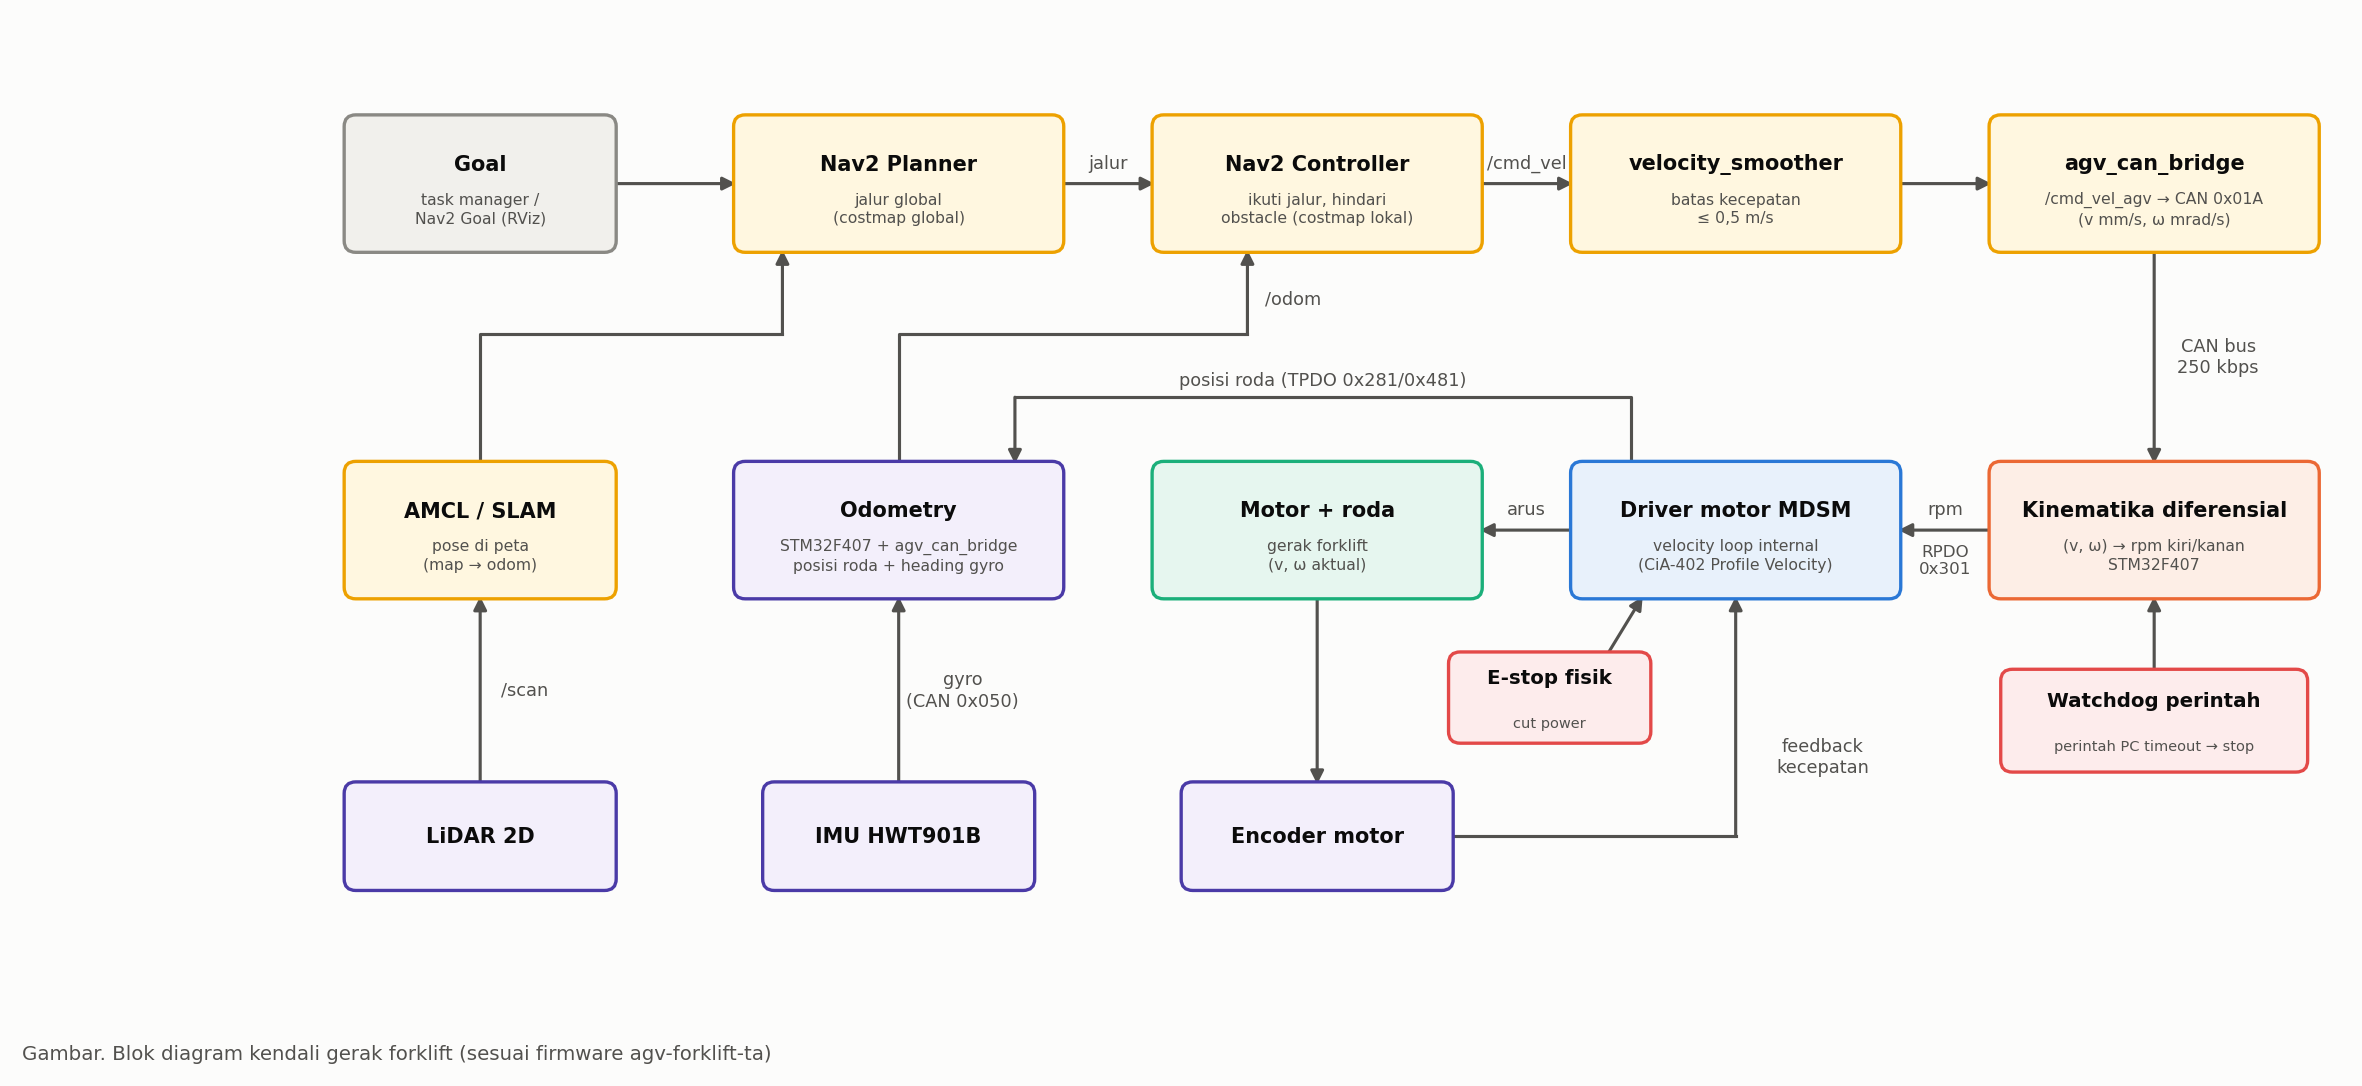
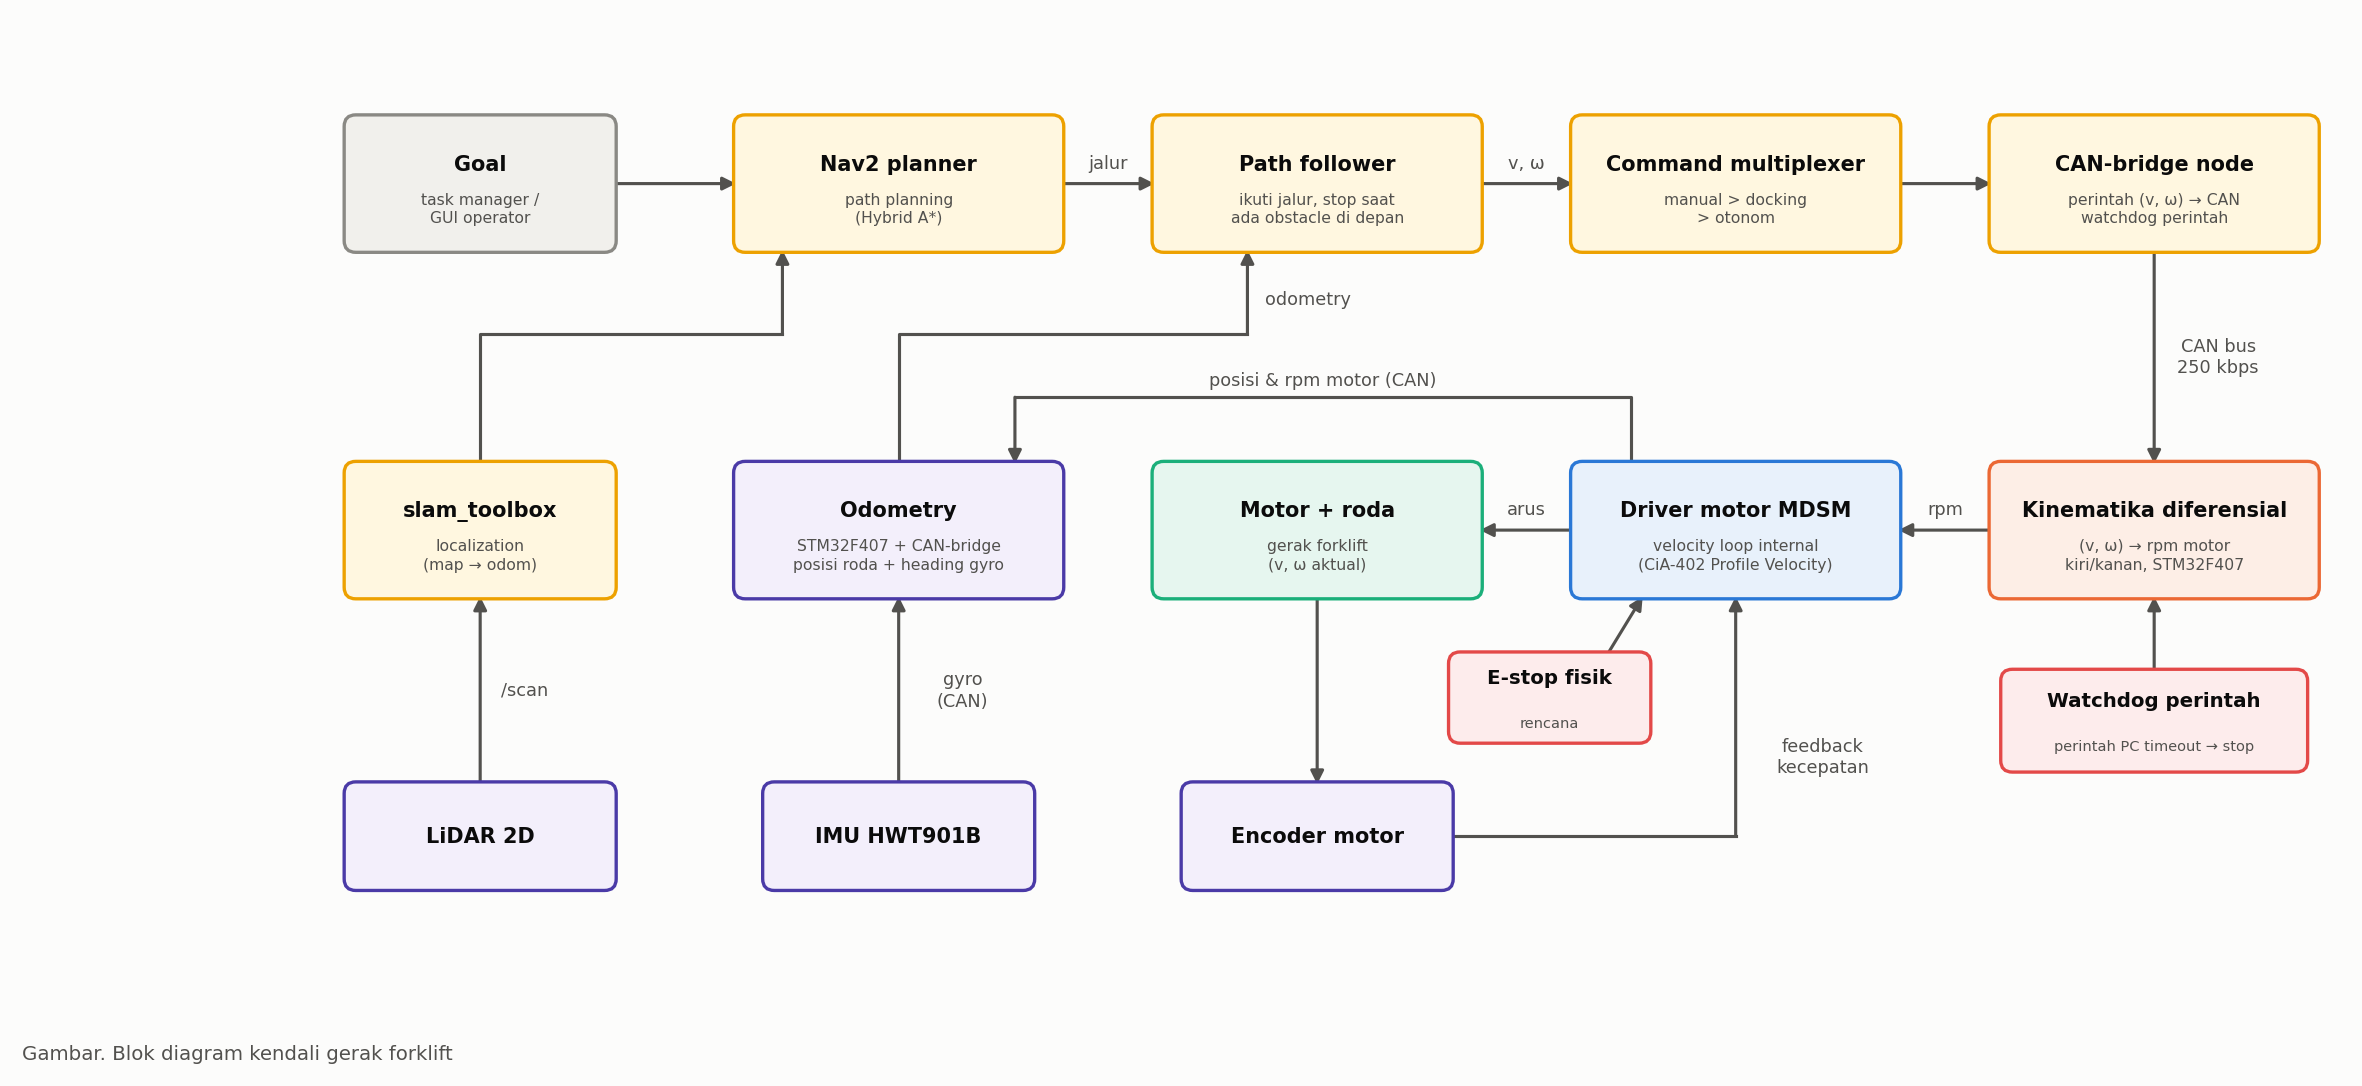
Week 3: hapus peta ID CAN rinci, sesuaikan kendali gerak dan localization dengan sistem nyata

diff --git a/README.md b/README.md
@@ -31,8 +31,8 @@ Periode 12/10/2026 s.d. 16/10/2026 (tahap Perancangan), sesuai logbook individu 
 
 **Kendala dan solusi:**
 
-1. Format pesan CAN STM32 utama belum diketahui, sehingga decoder `ros2_socketcan` masih memakai ID contoh. Solusi: peta ID dan format data diambil dari repositori proyek AGV `agv-forklift-ta` (`agv_can.py`, sumber firmware `can_pc.h`/`can_pc.c`); lihat [Peta ID CAN Forklift](#peta-id-can-forklift).
-2. FAST-LIO dan DLIO membutuhkan LiDAR 3D, sedangkan forklift memakai LiDAR 2D. Solusi: FAST-LIO dan DLIO tidak dipakai; navigasi tetap memakai slam_toolbox dan AMCL dengan odometry roda + gyro IMU.
+1. Format pesan CAN STM32 utama belum diketahui, sehingga decoder `ros2_socketcan` masih memakai ID contoh. Solusi: peta ID dan format data diambil dari firmware STM32F407 forklift milik mitra; ringkasannya ada di [Data CAN Forklift](#data-can-forklift).
+2. FAST-LIO dan DLIO membutuhkan LiDAR 3D, sedangkan forklift memakai LiDAR 2D. Solusi: FAST-LIO dan DLIO tidak dipakai; navigasi tetap memakai slam_toolbox (mapping dan localization) dengan odometry roda + gyro IMU.
 3. Kendali kecepatan per roda semula diasumsikan berupa PI di STM32 utama. Solusi: driver motor MDSM (CiA-402, Profile Velocity Mode) sudah mengatur kecepatan sendiri, sehingga STM32F407 cukup mengirim setpoint kecepatan (rpm) tiap roda; blok diagram kendali gerak dan arsitektur sistem diperbarui.
 4. Nilai deadband dan overrun pompa hidrolik untuk kendali fork belum diketahui. Solusi: identifikasi dari uji step fork di minggu 6–7.
 
@@ -74,7 +74,7 @@ ros2 launch ros2_socketcan socket_can_bridge.launch.xml interface:=can0
 - Field `can_msgs/msg/Frame` = `header`, `id`, `is_rtr`, `is_extended`, `is_error`, `dlc`, `data` (`uint8[8]`)
 - Parameter penting = `interface` (bawaan `can0`), `filters` (bawaan `0:0`, artinya semua ID diterima), `receiver_interval_sec` dan `sender_timeout_sec` (bawaan 0,01 s)
 
-Dengan paket ini, CAN-bridge node tidak perlu membuka socket sendiri. Node cukup mengubah `can_msgs/msg/Frame` menjadi topic bermakna, misalnya tinggi fork dari frame `0x42A`:
+Dengan paket ini, CAN-bridge node tidak perlu membuka socket sendiri. Node cukup mengubah `can_msgs/msg/Frame` menjadi topic bermakna, misalnya tinggi fork (ID dan posisi byte di bawah hanya contoh):
 
 ```python
 import struct
@@ -84,7 +84,8 @@ from can_msgs.msg import Frame
 from rclpy.node import Node
 from std_msgs.msg import Float32
 
-ID_TELE_POWER = 0x42A  # STM32F407 -> PC: daya + tinggi fork (u16 mm, byte 6-7)
+ID_FORK = 0x101  # ID contoh: tinggi fork u16 (satuan encoder x10), byte 6-7
+SKALA, OFFSET_CM = 0.971, 18.2  # hasil kalibrasi minggu 2
 
 
 class ForkDecoder(Node):
@@ -94,9 +95,9 @@ class ForkDecoder(Node):
         self.create_subscription(Frame, 'from_can_bus', self.on_frame, 50)
 
     def on_frame(self, f):
-        if f.id == ID_TELE_POWER and f.dlc >= 8:
-            height_mm = struct.unpack_from('<H', bytes(f.data), 6)[0]
-            self.pub.publish(Float32(data=height_mm / 10.0))
+        if f.id == ID_FORK and f.dlc >= 8:
+            raw = struct.unpack_from('<H', bytes(f.data), 6)[0] / 10.0
+            self.pub.publish(Float32(data=SKALA * raw + OFFSET_CM))
 
 
 def main():
@@ -108,33 +109,19 @@ if __name__ == '__main__':
     main()
 ```
 
-> **Catatan:** Nama launch file, topic, field message, dan parameter di atas sudah dicek dari paket `ros-humble-ros2-socketcan` 1.4.0. Format `0x42A` diambil dari `agv_can.py`. Kode contoh ini belum diuji di bus CAN forklift; di forklift, peran ini sudah dijalankan oleh `agv_can_bridge.py`.
+> **Catatan:** Nama launch file, topic, field message, dan parameter di atas sudah dicek dari paket `ros-humble-ros2-socketcan` 1.4.0. Kode contoh ini belum diuji di bus CAN forklift; di forklift, peran ini sudah dijalankan oleh CAN-bridge node.
 
-### Peta ID CAN Forklift
+### Data CAN Forklift
 
-Sumber: `agv-forklift-ta/ibe-agv/stm32_firmware/agv_can.py` (mengikuti firmware `Core/Inc/can_pc.h` dan `Core/Src/can_pc.c`). Bus CAN1 250 kbps, ID 11 bit, data *little-endian*. Node PC = 10 (`0x0A`).
+Format data diambil dari firmware STM32F407 forklift milik mitra. Rincian ID dan isi frame tidak dicantumkan di repositori publik ini; versi lengkapnya ada di DED bagian 5.3.
 
-**PC → STM32F407**
+- Bus = CAN1 250 kbps, ID 11 bit, data *little-endian*
+- PC → STM32F407 = Perintah gerak (v, ω) sekitar 50 Hz, target tinggi fork, dan E-stop software
+- STM32F407 → PC = Pose, gerak, daya dan tinggi fork, status, perintah yang sedang berlaku, serta data joystick (10–30 Hz)
+- Perangkat lain di bus = TPDO driver MDSM (statusword, posisi, arus, rpm motor) dan IMU HWT901B
+- Tinggi fork di frame telemetry masih dalam satuan encoder, jadi perlu dikoreksi dengan hasil kalibrasi minggu 2 (tinggi nyata = 0,971 × bacaan + 18,2 cm)
 
-- `0x00A` ESTOP = `data[0] = 0x55`
-- `0x01A` CMD (50 Hz) = `i16 v` mm/s, `i16 ω` mrad/s, `u8 mode` (1 = jalan), `u8 lampu`, `u8 beacon`, `u8 counter`
-- `0x02A` FORK = `u16` target tinggi dalam mm (firmware membatasi 0–250 cm)
-
-**STM32F407 → PC**
-
-- `0x40A` pose (30 Hz) = `f32 x`, `f32 y`
-- `0x41A` gerak (30 Hz) = `i16 θ`, `i16 yaw`, `i16 v`, `i16 ω` (dibagi 1000)
-- `0x42A` daya (10 Hz) = tegangan, arus, ..., `u16` tinggi fork (mm)
-- `0x43A` status (10 Hz) = flag (motor aktif, perintah PC baru, fork diam, E-stop, kalibrasi IMU), tombol, status pompa fork
-- `0x44A` perintah aktif (30 Hz) = v dan ω yang sedang dijalankan
-- `0x45A` joystick mentah (10 Hz)
-
-**Langsung dari perangkat lain di bus**
-
-- `0x181`, `0x281`, `0x381`, `0x481` = TPDO driver MDSM (node 1): statusword, posisi, torsi, kecepatan roda
-- `0x050` = IMU HWT901B (akselerasi, gyro, sudut)
-
-Di ROS 2, `agv_can_bridge.py` menerbitkan `/odom` dan `/fork_height`, serta menerima `/cmd_vel_agv` dan `/cmd_fork`.
+Di ROS 2, CAN-bridge node menerbitkan `/odom` dan `/fork_height`, serta menerima `/cmd_vel_agv` dan `/cmd_fork`.
 
 ### Kondisi Error Bus
 
@@ -154,6 +141,8 @@ sudo ip link set can0 type can bitrate 250000 restart-ms 100
 sudo ip link set can0 up
 ```
 
+> **Catatan:** Adapter USB-CAN di forklift (kelas gs_usb) menolak opsi `restart-ms`, jadi pemulihan bus-off di sana dilakukan dengan `ip link set can0 down` lalu `up`.
+
 ### Merekam dan Memutar Ulang Log CAN
 
 ```bash
@@ -170,10 +159,10 @@ Log CAN berguna untuk mengembangkan decoder di meja kerja tanpa menyalakan forkl
 Node minggu 2 membuka bus CAN sendiri, lalu mengurai frame di node yang sama. Dengan `ros2_socketcan`, akses bus dipisah ke node resmi, sehingga decoder cukup mengolah `can_msgs/msg/Frame`. Decoder juga bisa diuji dengan rosbag yang berisi `/from_can_bus`.
 
 **Apa yang terjadi jika kabel CAN terlepas saat forklift berjalan?**
-Pengiriman gagal terus sehingga node bisa masuk error passive lalu bus-off. Karena itu STM32 utama punya watchdog: jika perintah `0x01A` dari PC timeout, forklift berhenti (target SP-09: ≤ 1 s).
+Pengiriman gagal terus sehingga node bisa masuk error passive lalu bus-off. Karena itu STM32 utama punya watchdog: jika perintah gerak dari PC berhenti datang, forklift berhenti. Saat ini batasnya 1,5 s, masih di atas target SP-09 (≤ 1 s).
 
 **Kenapa perlu `restart-ms`?**
-Tanpa `restart-ms`, antarmuka yang sudah bus-off tetap mati sampai di-*restart* manual. Dengan `restart-ms 100`, kernel mencoba memulihkan bus otomatis.
+Tanpa `restart-ms`, antarmuka yang sudah bus-off tetap mati sampai di-*restart* manual. Dengan `restart-ms 100`, kernel mencoba memulihkan bus otomatis, selama driver adapternya mendukung opsi ini.
 
 ---
 
@@ -210,7 +199,7 @@ Tanpa `restart-ms`, antarmuka yang sudah bus-off tetap mati sampai di-*restart* 
 
 ### Relevansi untuk Forklift
 
-FAST-LIO dan DLIO dirancang untuk **LiDAR 3D** (misalnya Livox atau Ouster). Forklift memakai **LiDAR 2D** yang hanya memindai satu bidang, sehingga tidak ada informasi ketinggian untuk mengoreksi gerak 3D. **Keputusan: FAST-LIO dan DLIO tidak dipakai.** Navigasi tetap memakai slam_toolbox (mapping) dan AMCL (localization), dengan odometry dari posisi roda + gyro IMU.
+FAST-LIO dan DLIO dirancang untuk **LiDAR 3D** (misalnya Livox atau Ouster). Forklift memakai **LiDAR 2D** yang hanya memindai satu bidang, sehingga tidak ada informasi ketinggian untuk mengoreksi gerak 3D. **Keputusan: FAST-LIO dan DLIO tidak dipakai.** Navigasi tetap memakai slam_toolbox untuk mapping dan localization, dengan odometry dari posisi roda + gyro IMU.
 
 ### Hasil Belajar
 
@@ -253,7 +242,7 @@ planner_server:
     GridBased:
       plugin: "nav2_smac_planner/SmacPlannerHybrid"
       motion_model_for_search: "REEDS_SHEPP"  # atau "DUBIN" (hanya maju)
-      minimum_turning_radius: 1.0             # meter, diukur dari forklift
+      minimum_turning_radius: 1.0             # contoh; ukur dari forklift
       reverse_penalty: 2.0                    # mundur lebih mahal dari maju
       change_penalty: 0.0                     # penalti ganti arah maju/mundur
       non_straight_penalty: 1.2               # penalti saat berbelok
@@ -288,13 +277,13 @@ Ada dua loop kendali: **kendali ketinggian fork** di STM32 utama, dan **kendali 
 
 ![Blok diagram kendali ketinggian fork](images/kendali-fork.png)
 
-- Referensi r = Target tinggi fork dari ROS 2 (`/cmd_fork`), dikirim lewat CAN `0x02A` ke STM32F407
+- Referensi r = Target tinggi fork dari ROS 2 (`/cmd_fork`), dikirim lewat CAN ke STM32F407
 - Error e = r − y
 - Kontroler = Logika on/off dengan deadband dan early cut di STM32F407
 - Sinyal kendali u = NAIK (pompa ON), TURUN (katup solenoid ON), atau DIAM
 - Plant = Silinder hidrolik dan fork
 - Disturbance = Overrun pompa: fork masih bergerak sebentar setelah pompa dimatikan (risiko R-03)
-- Umpan balik y = Tinggi fork dari encoder inkremental, dihitung modul fork STM32F401, dikirim lewat UART4; STM32F407 meneruskannya ke ROS 2 di frame `0x42A` (`/fork_height`)
+- Umpan balik y = Tinggi fork dari encoder inkremental, dihitung modul fork STM32F401, dikirim lewat UART4; STM32F407 meneruskannya ke ROS 2 lewat CAN (`/fork_height`)
 - Interlock = Limit switch atas melarang NAIK, limit switch bawah melarang TURUN dan menjadi titik nol (homing)
 
 Logika kendali (usulan):
@@ -315,12 +304,12 @@ Nilai deadband, overrun naik, dan overrun turun belum diketahui. Nilai ini diide
 
 ![Blok diagram kendali gerak](images/kendali-gerak.png)
 
-- Loop luar (ROS 2) = Nav2 Planner membuat jalur global, Nav2 Controller menghasilkan `/cmd_vel` (v, ω), `velocity_smoother` membatasi kecepatan ≤ 0,5 m/s
-- CAN-bridge node = `agv_can_bridge` mengirim `/cmd_vel_agv` sebagai frame CAN `0x01A` (v mm/s, ω mrad/s) 50 Hz ke STM32F407
-- STM32F407 = Kinematika diferensial mengubah (v, ω) menjadi setpoint rpm roda kiri dan kanan, dikirim ke driver lewat CAN (RPDO `0x301`)
+- Loop luar (ROS 2) = Nav2 planner (Hybrid A*) membuat jalur, path follower mengikuti jalur dan berhenti jika ada obstacle di depan, lalu command multiplexer memilih perintah (manual > docking > otonom) menjadi `/cmd_vel_agv`
+- CAN-bridge node = Mengirim `/cmd_vel_agv` (v, ω) lewat CAN sekitar 50 Hz ke STM32F407
+- STM32F407 = Kinematika diferensial mengubah (v, ω) menjadi setpoint rpm motor kiri dan kanan (gear ratio 24), dikirim ke driver lewat CAN
 - Loop dalam (driver MDSM) = Driver mengatur kecepatan motor sendiri (CiA-402 Profile Velocity Mode) dengan umpan balik encoder motor
-- Feedback = Posisi roda dari TPDO MDSM (`0x281`/`0x481`) dan heading dari gyro IMU HWT901B (`0x050`) diolah menjadi `/odom` oleh STM32F407 dan `agv_can_bridge`; LiDAR masuk AMCL/SLAM menjadi pose di peta
-- Safety = Watchdog: perintah PC timeout → stop (target SP-09: ≤ 1 s); E-stop fisik memutus power motor tanpa software
+- Feedback = Posisi dan rpm motor dari driver MDSM serta heading dari gyro IMU HWT901B diolah menjadi `/odom` oleh STM32F407 dan CAN-bridge node; LiDAR masuk slam_toolbox (localization) menjadi pose di peta
+- Safety = Watchdog: perintah PC timeout → stop (target SP-09: ≤ 1 s); E-stop fisik memutus power motor tanpa software (rencana; wiring belum diverifikasi)
 
 Kinematika diferensial, dengan L = jarak antar roda dan r = jari-jari roda:
 
@@ -329,7 +318,7 @@ Kinematika diferensial, dengan L = jarak antar roda dan r = jari-jari roda:
 ωL = (v − ω · L/2) / r
 ```
 
-> **Catatan:** Desain ini sudah disesuaikan dengan firmware di `agv-forklift-ta`: tidak perlu kendali PI kecepatan di STM32, karena driver MDSM sudah mengatur kecepatan sendiri.
+> **Catatan:** Desain ini sudah disesuaikan dengan firmware forklift: tidak perlu kendali PI kecepatan di STM32, karena driver MDSM sudah mengatur kecepatan sendiri.
 
 ### Hasil Belajar
 
@@ -349,14 +338,14 @@ Arsitektur disusun berlapis mengikuti template DED:
 
 - Field = LiDAR 2D, encoder fork, 2 limit switch, joystick (ESP32), pompa dan katup fork, E-stop fisik, encoder motor, motor traksi kiri/kanan
 - Control = Bus CAN 250 kbps berisi STM32F407 utama (mode, watchdog, interlock, kendali fork, odometry), driver motor MDSM (CiA-402), dan IMU HWT901B; modul fork STM32F401 terhubung ke STM32F407 lewat UART4; joystick lewat UART
-- Edge = PC onboard dengan ROS 2 Humble: driver LiDAR, SLAM/AMCL, Nav2, manajemen tugas, klien MQTT, `agv_can_bridge` (adapter USB-CAN)
-- Supervisory = Halaman monitoring lewat MQTT (Wi-Fi)
+- Edge = PC onboard dengan ROS 2 Humble: driver LiDAR, slam_toolbox, Nav2, task manager, MQTT (rencana), CAN-bridge node (adapter USB-CAN)
+- Supervisory = Halaman monitoring lewat MQTT (Wi-Fi, rencana)
 
 Draf DED bagian 01–03 disusun dari template departemen (`PJBL7-K1-DED`, revisi 00, status DRAF):
 
 - 01 Pendahuluan = Ringkasan proyek, tujuan dokumen, ruang lingkup desain, definisi dan singkatan
 - 02 Kebutuhan Sistem = Kebutuhan fungsional FR-01 s.d. FR-10 dan non-fungsional NFR-01 s.d. NFR-08, dipetakan ke SP-01 s.d. SP-09
-- 03 Arsitektur Sistem = Diagram blok di atas dan deskripsi subsistem SS-01 s.d. SS-07
+- 03 Arsitektur Sistem = Diagram blok di atas dan deskripsi subsistem SS-01 s.d. SS-06
 
 Bagian 04–10 (desain hardware, software, flowchart, rencana uji, keselamatan, lampiran, review) disusun minggu 4–5 untuk review desain M2.
 
@@ -366,7 +355,7 @@ Bagian 04–10 (desain hardware, software, flowchart, rencana uji, keselamatan, 
 
 Minggu 4, sesuai rencana di logbook minggu 3:
 
-- Verifikasi frame CAN di bus forklift dengan `candump`, dibandingkan dengan peta ID dari `agv_can.py`
+- Verifikasi frame CAN di bus forklift dengan `candump`, dibandingkan dengan peta ID dari firmware
 - Driver LiDAR: `/scan` tampil di RViz
 - Kalibrasi fork titik 200 cm dan putaran turun
 - Perbaikan label limit switch di skematik
